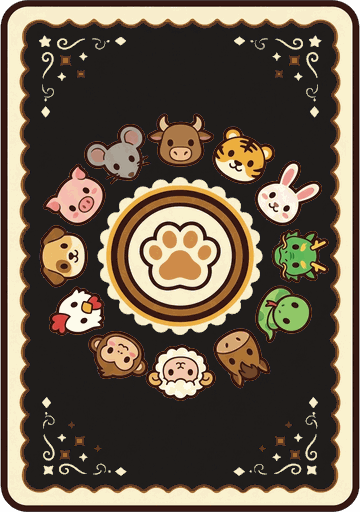
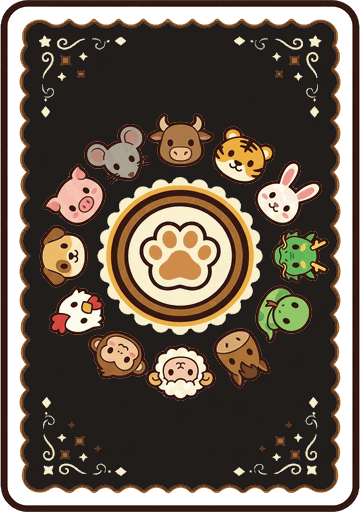
feat(casino): 트럼프 뒷면 테두리 띠를 흰색으로

Changed region(s): [[0.0, 0.0, 0.9778, 1.0]]

diff --git a/games/lib/cards.ts b/games/lib/cards.ts
@@ -55,7 +55,7 @@ export function drawTable(scene: Scene, game: 'matgo' | 'poker' | 'holdem' | 'bl
 // ---------- 카드 뒷면 ----------
 
 /**
- * 카드 뒷면: 트럼프는 --card-back(짙은 먹색), 화투는 --primary(노랑) 바탕에 12띠가 원형으로 둘러선 문양. 한 번만 그려 텍스처로 둔다.
+ * 카드 뒷면: 트럼프는 흰 테두리 + --card-back(짙은 먹색), 화투는 --primary(노랑) 바탕에 12띠가 원형으로 둘러선 문양. 한 번만 그려 텍스처로 둔다.
  * back-casino: 트럼프 / back-hwatu: 화투 (같은 무늬, 화투 비율)
  */
 export function cardBack(scene: Scene, key: 'back-casino' | 'back-hwatu') {
@@ -67,7 +67,11 @@ export function cardBack(scene: Scene, key: 'back-casino' | 'back-hwatu') {
   const g = scene.make.graphics({}, false);
   const r = key === 'back-hwatu' ? 18 : 16;
   g.fillStyle(C.outline, 1).fillRoundedRect(0, 0, W, H, r);
-  g.fillStyle(key === 'back-casino' ? C.cardBack : C.primary, 1).fillRoundedRect(4, 4, W - 8, H - 8, r - 3);
+  if (key === 'back-casino') {
+    // 트럼프: 흰 테두리 띠 안에 짙은 먹색 바탕
+    g.fillStyle(C.white, 1).fillRoundedRect(4, 4, W - 8, H - 8, r - 3);
+    g.fillStyle(C.cardBack, 1).fillRoundedRect(9, 9, W - 18, H - 18, r - 5);
+  } else g.fillStyle(C.primary, 1).fillRoundedRect(4, 4, W - 8, H - 8, r - 3);
   g.lineStyle(3, C.white, 0.9).strokeRoundedRect(11, 11, W - 22, H - 22, r - 6);
   g.fillStyle(C.panel, 1).fillCircle(W / 2, H / 2, W * 0.43);
   g.lineStyle(3, C.outline, 1).strokeCircle(W / 2, H / 2, W * 0.43);

diff --git a/games/lib/shell.ts b/games/lib/shell.ts
@@ -842,7 +842,7 @@ async function roomScreen(ui: GameUI, m: Mods, me: WorldUser, roomId: string) {
           this.load.image(`full-${z}`, m.z.fullUrl(z));
         }
         // 트럼프 뒷면 그림 (못 불러오면 cards.ts가 코드로 그린다)
-        this.load.image('back-casino', new URL('shared/images/cards/back.png?v=ink', worldRoot()).href);
+        this.load.image('back-casino', new URL('shared/images/cards/back.png?v=ink2', worldRoot()).href);
         ui.preload?.(this, m.z.avatarUrl);
       },
       create(this: PhaserNS.Scene) {
